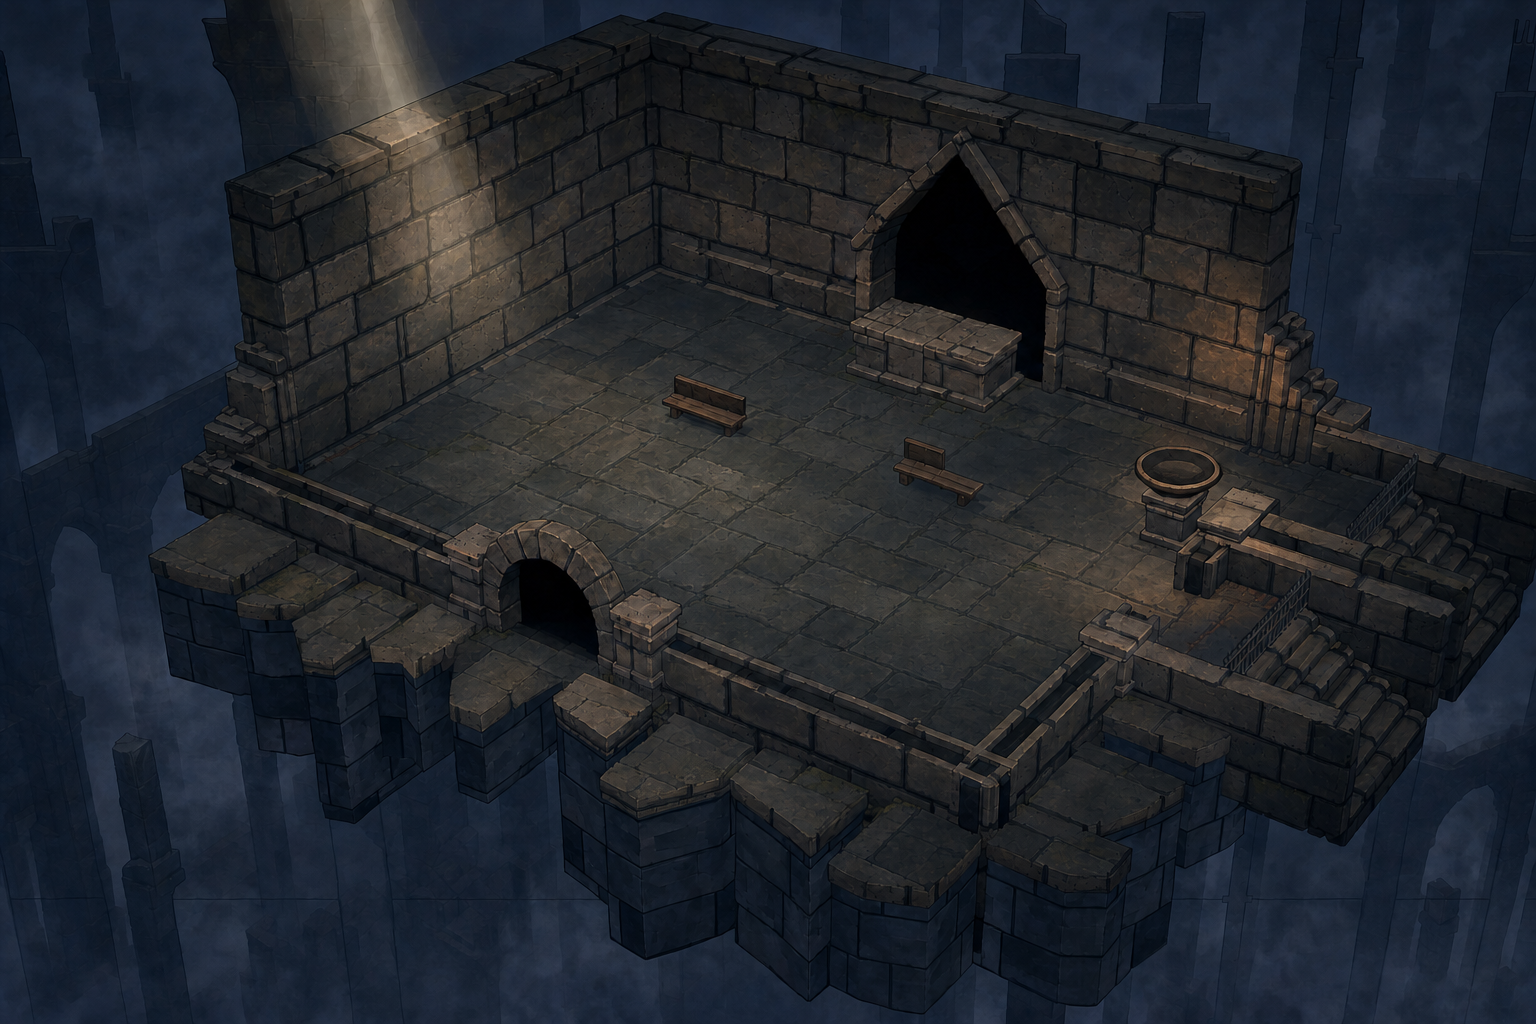
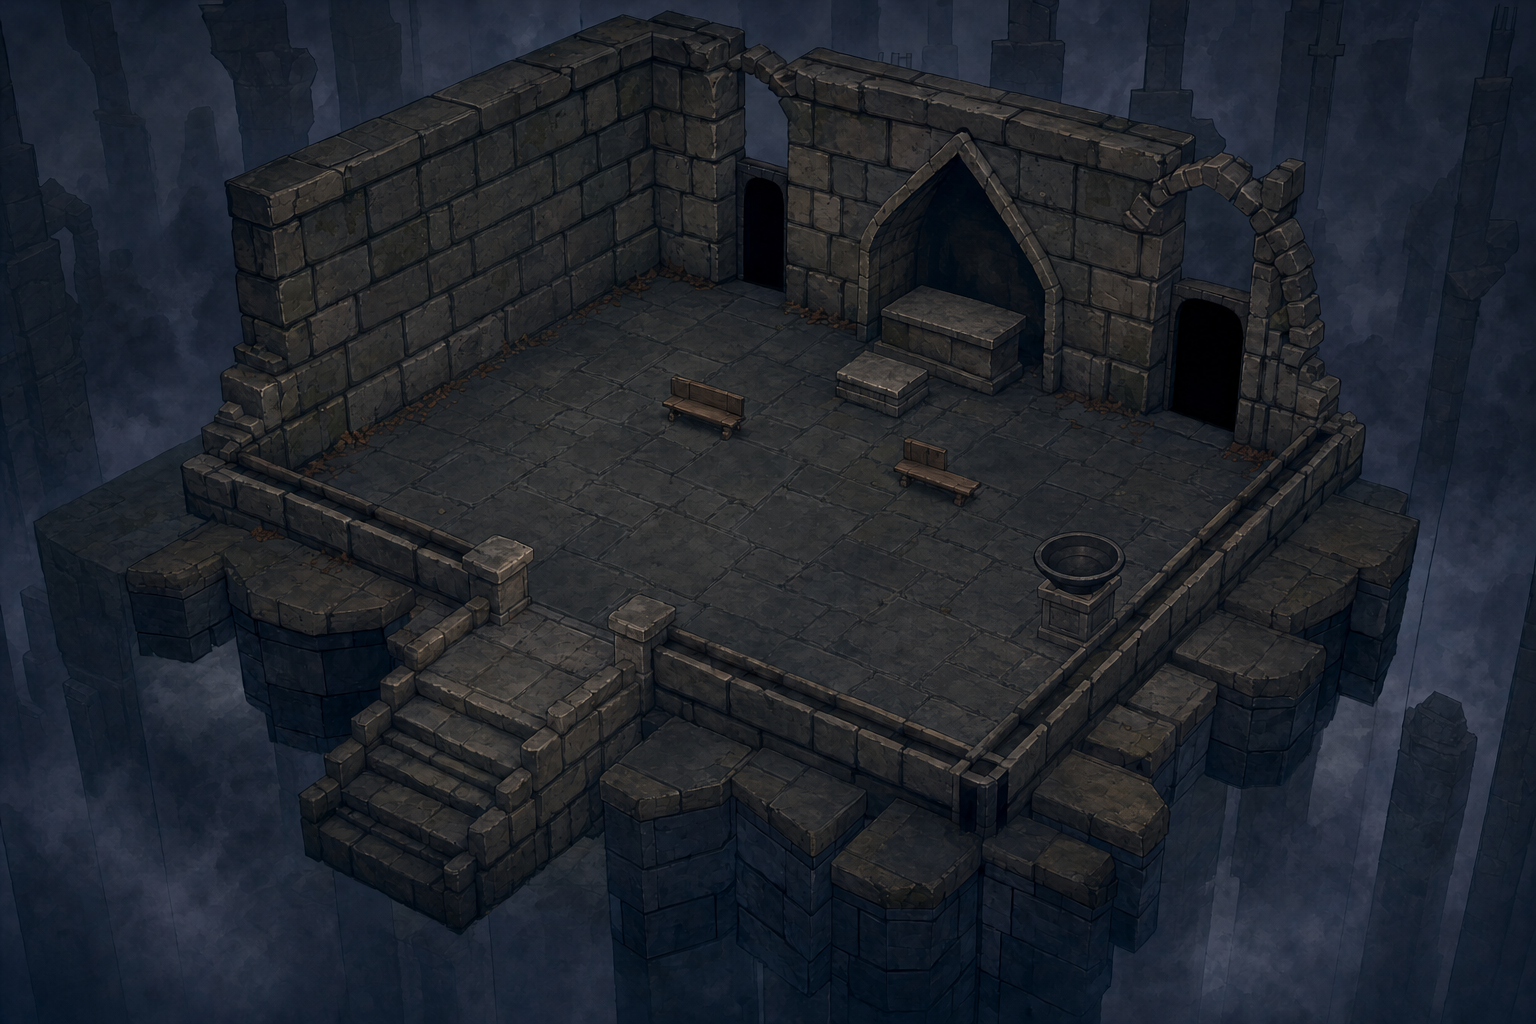
GP-8 lote 5: trial and altar repainted (altar doors on the back wall); README costs

diff --git a/docs/art/painted_gpt/README.md b/docs/art/painted_gpt/README.md
@@ -39,6 +39,7 @@ Generation (curl; the key is read from the file, never printed):
 | 2026-11-27 | hub approval (`hub/aprovacao/`), edit of the approved hub art: Videira tree in the centre (no pavilion), Adventure Gate at top centre (Heroes' hall out), right becomes a lookout terrace, no text/legend | 1 | 5488 | 0.25 |
 | 2026-11-27 | hub game plate (`hub/jogo/`), edit of the approved `hub_aprovacao.png`: Videira, lights, water, Vigília fire and brazier out; open plaza luma 102 -> 76; overlay without double edges | 1 | 5488 | 0.25 |
 | 2026-11-27 | lote5 (`lote5/`), bases_v3 (new south entrance): 8 entrance edits of the approved plates (crypt0, rift0, rift1, garden0, sanctuary0, knight, elder, trial; trial discarded, wrong base); approvals crypt1/garden1/sanctuary1/bridge0/bridge1/runes0/runes1 a1 (bridges and runes off, rejected); game g1 crypt1/garden1/sanctuary1; bridge0 entrance edit; bridge1 a2 (edit of lote4 approval) + g1; runes0/1 a2c + g1c on a crop; runes1 g2c (g1c turned the lattice into a door) | 26 | 5488 | 6.50 |
+| 2026-11-27 | lote5 trial/altar on the recaptured bases: trial a1+g1, altar a1+g1 (opened a third doorway in the left wall), g2 (+`fix_g_altar.txt`, chosen) | 5 | 5488 | 1.25 |
 
 ## style_v2 (2026-11-27): style approval round
 `style_v2/` holds the variants Daniel is choosing from (Downloads\ASelagem-GP8\APROVAR-ESTILO). Request =
@@ -204,6 +205,9 @@ Finals in `lote5/final/<key>.png` (+ `_aprovacao.png`, `_lado_a_lado.jpg`, `_enc
 | bridge_1 | bridge1-a2 / g1 | platforms, portal, entrance few px; zigzag bridge 20 to 30 px (painted a bit wider) |
 | runes_0 | runes0-a2c / g1c | few px; brazier ~20 px right |
 | runes_1 | runes1-a2c / g2c | few px; floating stones out in the game plate |
-| trial, altar | none | bases_v3 trial.png and altar.png both show the stream hall, not these rooms: recapture |
+| trial | trial-a1 / g1 | few px (walls, doors, pedestal, stele, stairs); markers, violet cracks and lamps out in the game plate |
+| altar | altar-a1 / g2 | few px to ~15 px; marker and medallion painted out (cold pedestal), light beam and flame out in the game plate |
 Rules checked: no figures, banners, text, sun/star/cross; no violet (rift1 swirl out), no emerald (garden crystals out in game);
 doors apart with a piece between (runes: lattice, brazier; crypt1: statue and column; garden1: statue niche); doorways dark.
+
+Breakables check of the game plates (looked at the images): garden_1, sanctuary_1, bridge_1, runes_0, runes_1 show no urns, vases or crates.
